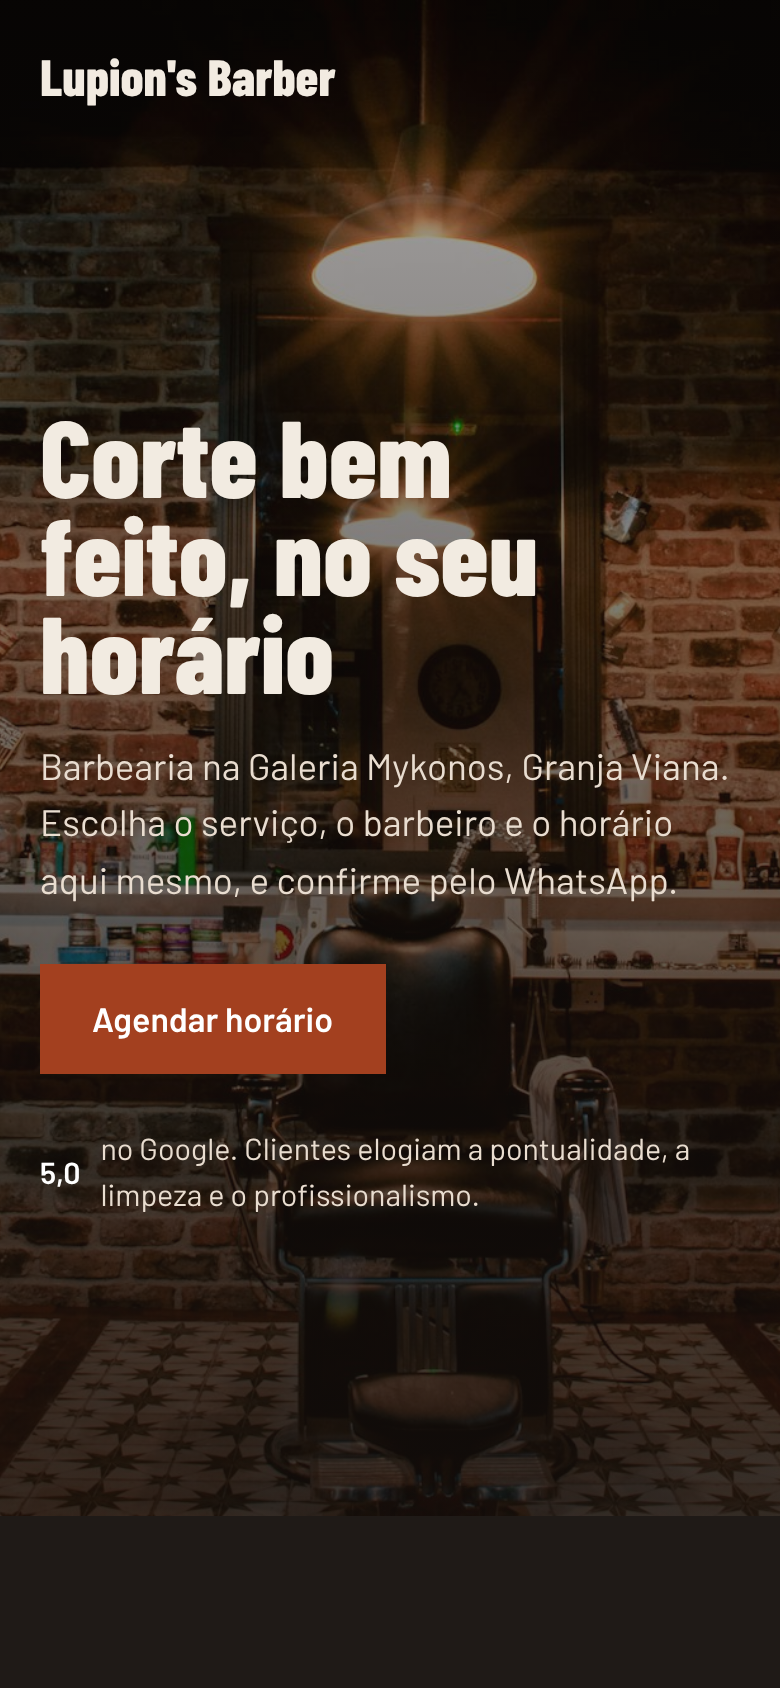
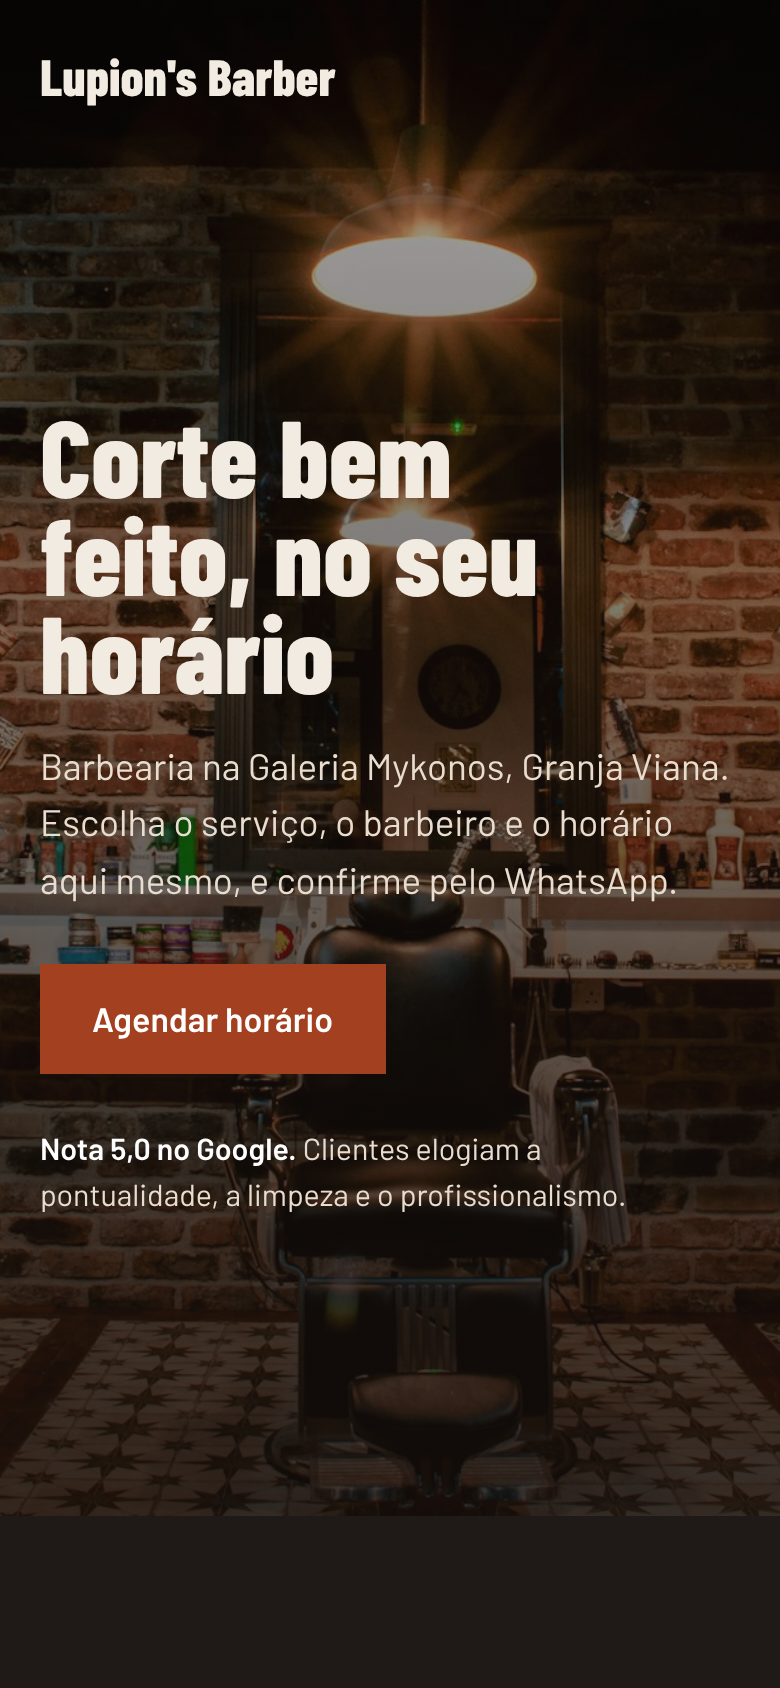
Ajusta a linha da nota do Google na prévia da Lupion's
Claude-Session: https://claude.ai/code/session_01VVFaYFBazfBerGM9xmHanA

Changed region(s): [[0.0308, 0.6777, 0.8923, 0.7393]]

diff --git a/previas/lupions-barber.html b/previas/lupions-barber.html
@@ -63,7 +63,7 @@ footer p{margin:0;color:#ecd2c5}
   <h1>Corte bem feito, no seu horário</h1>
   <p>Barbearia na Galeria Mykonos, Granja Viana. Escolha o serviço, o barbeiro e o horário aqui mesmo, e confirme pelo WhatsApp.</p>
   <a class="btn" href="#agendar">Agendar horário</a>
-  <div class="nota"><b>5,0</b> no Google. Clientes elogiam a pontualidade, a limpeza e o profissionalismo.</div>
+  <div class="nota" style="display:block;max-width:38ch"><b>Nota 5,0 no Google.</b> Clientes elogiam a pontualidade, a limpeza e o profissionalismo.</div>
 </div></section>
 
 <section class="agenda" id="agendar"><div class="in">
